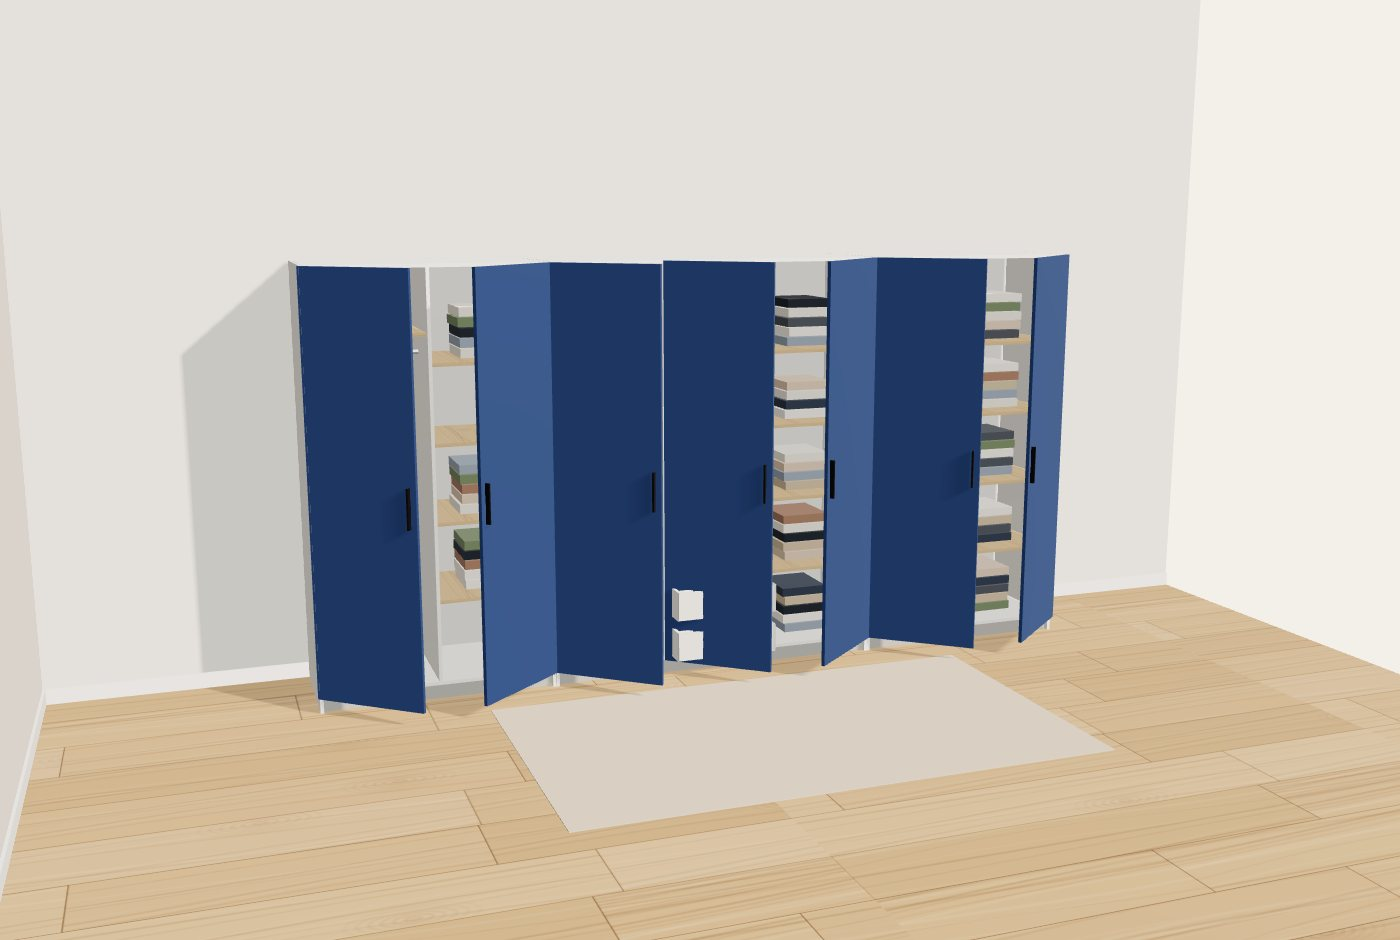
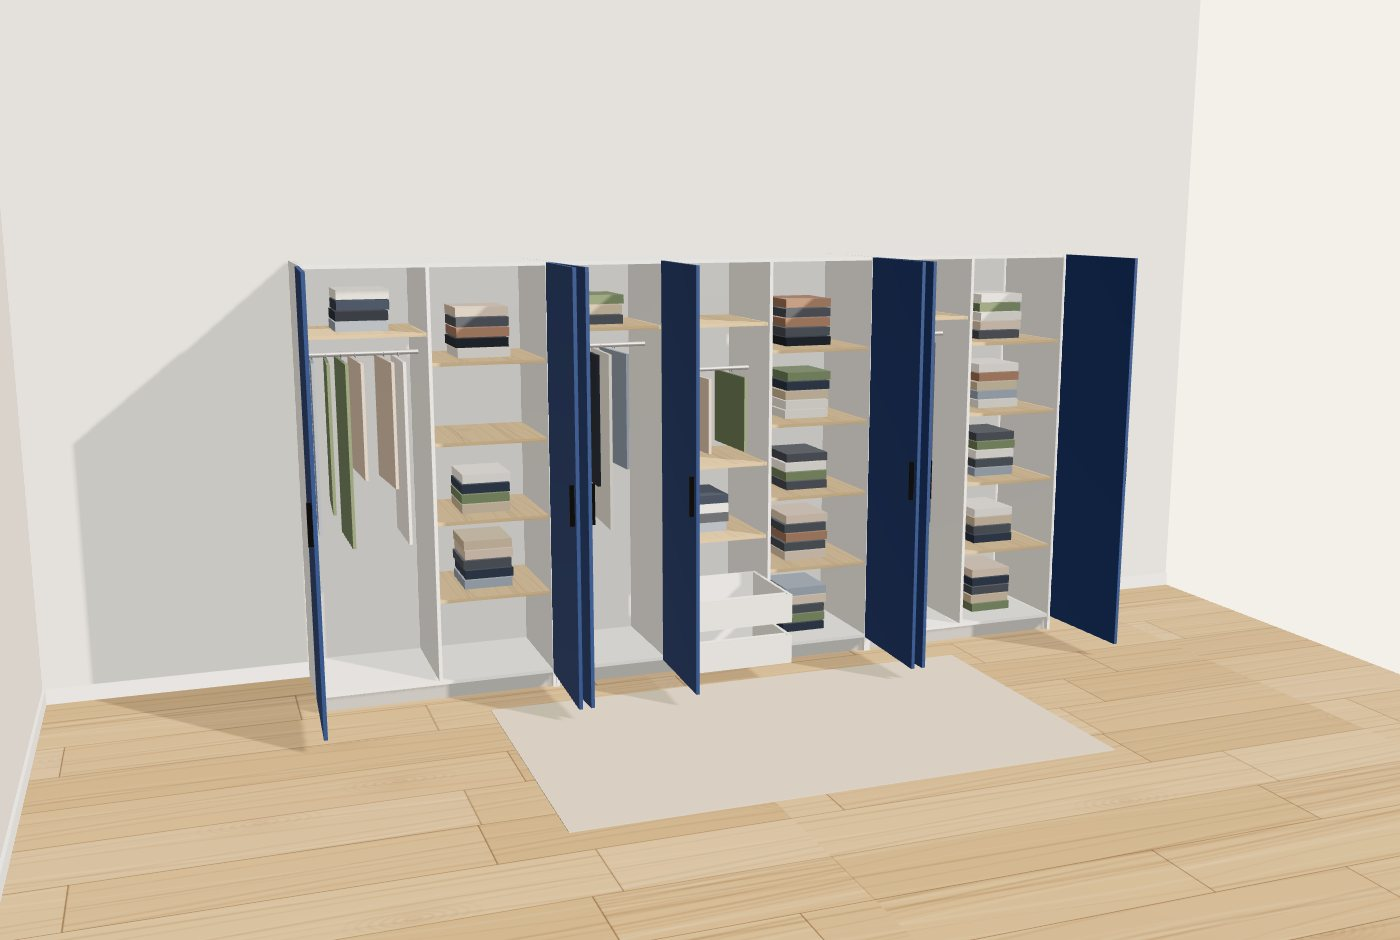
Furniture: open landing-page samples in the studio
"ออกแบบชิ้นนี้" / "เปิดแบบนี้" (#studio?showcase=id) adds the sample's pieces to
the current project; fixed-position pieces (wall cabinets) are placed relative
to the end of the existing row.

Claude-Session: https://claude.ai/code/session_013i3ffzNscq9RKf1YKZ52Sz

Changed region(s): [[0.0307, 0.2468, 0.8293, 0.8021]]

diff --git a/furniture/src/studio/Studio.jsx b/furniture/src/studio/Studio.jsx
@@ -5,13 +5,14 @@ import {
   Undo2, Redo2, Save, FolderOpen, FilePlus2, Lock, Loader2, Upload, FileJson, PencilRuler, Box, Scissors, Calculator, Camera,
   DoorOpen, DoorClosed, Eye, Maximize, ImageDown, Layers, Archive, Shirt,
 } from 'lucide-react';
-import { newPiece, newStudioDesign, normalizePiece, freeSpot, DEFAULT_PRICING, DEFAULT_MATERIALS, uid, matById, innerHeight } from './model';
+import { buildPiece, newPiece, newStudioDesign, normalizePiece, freeSpot, DEFAULT_PRICING, DEFAULT_MATERIALS, uid, matById, innerHeight } from './model';
 import { analyzeProject } from './costing';
 import FrontView from './FrontView';
 import { PiecesPanel, PropsPanel } from './Panels';
 import { CutListView, CostView, QuoteModal } from './CutCost';
 import PhotoMeasure from './PhotoMeasure';
 import Configurator from './Configurator';
+import { HERO_SHOTS, PRODUCTS, PORTFOLIO } from '../customer/showcase';
 import { printQuotation, printCutSheet, downloadCutCsv, downloadBlob, safeName } from './printDocs';
 import { usePersistentState } from '../lib/storage';
 import { api } from '../lib/api';
@@ -178,6 +179,30 @@ export default function Studio({ settings, session, onNeedAccess, notify }) {
       setSelection({ col: ci, item: null });
     },
   };
+
+  // Landing page "ออกแบบชิ้นนี้": #studio?showcase=<id> adds that sample's pieces to the project
+  useEffect(() => {
+    const open = () => {
+      const m = window.location.hash.match(/^#studio\?showcase=([\w-]+)/);
+      if (!m) return;
+      window.history.replaceState(null, '', `${window.location.pathname}${window.location.search}#studio`);
+      const shot = [...PRODUCTS, ...PORTFOLIO, ...HERO_SHOTS].find((x) => x.id === m[1]);
+      if (!shot) return;
+      const pieces = shot.pieces.map((x) => newPiece(x.template, x));
+      change((d) => {
+        // fixed positions (wall cabinets over base cabinets) are relative to where this set starts in the row
+        const start = d.items.reduce((x, p) => (p.posX == null ? x + buildPiece(p, d.pricing.materials).outer.outerW + (p.gap ?? 30) : x), 0);
+        return { ...d, items: [...d.items, ...pieces.map((p) => (p.posX == null ? p : { ...p, posX: p.posX + start }))] };
+      });
+      setTimeout(() => viewerRef.current?.fit(), 400);
+      selectPiece(pieces[0].id);
+      setTab('3d');
+      notify(`เพิ่ม "${shot.name || shot.title}" ในโปรเจกต์แล้ว — ปรับขนาด สี และวัสดุได้เลย`);
+    };
+    open();
+    window.addEventListener('hashchange', open);
+    return () => window.removeEventListener('hashchange', open);
+  }, []); // eslint-disable-line react-hooks/exhaustive-deps
 
   // keyboard: undo / redo / delete element
   useEffect(() => {

diff --git a/furniture/src/App.jsx b/furniture/src/App.jsx
@@ -28,6 +28,7 @@ const pageFromHash = () => {
   if (window.location.hash.startsWith('#login=')) return 'studio';
   // …/admin (path) also opens the back office — same as …/#admin
   if (/^\/admin\/?$/.test(window.location.pathname)) return 'admin';
+  if (window.location.hash.startsWith('#studio')) return 'studio'; // #studio?showcase=… opens a sample design
   return PAGES.find((p) => window.location.hash === `#${p}`) || 'home';
 };
 
